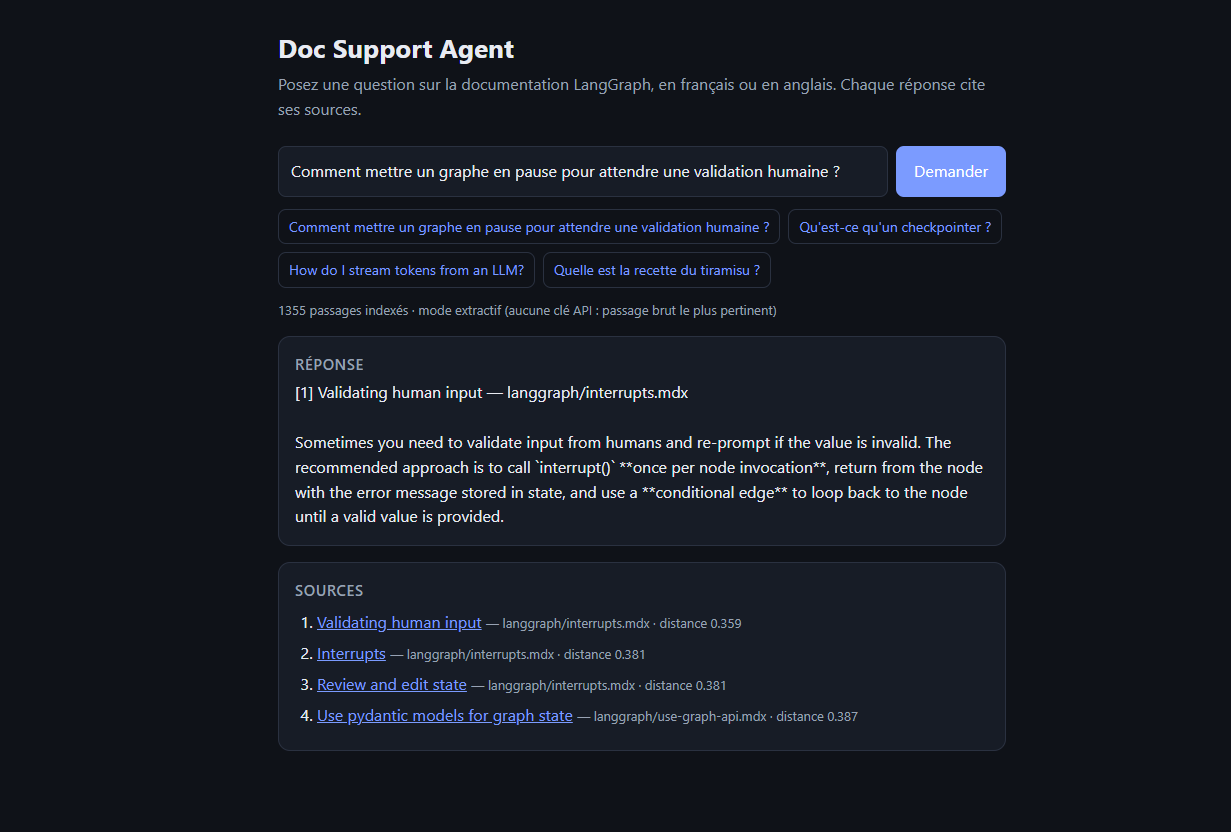
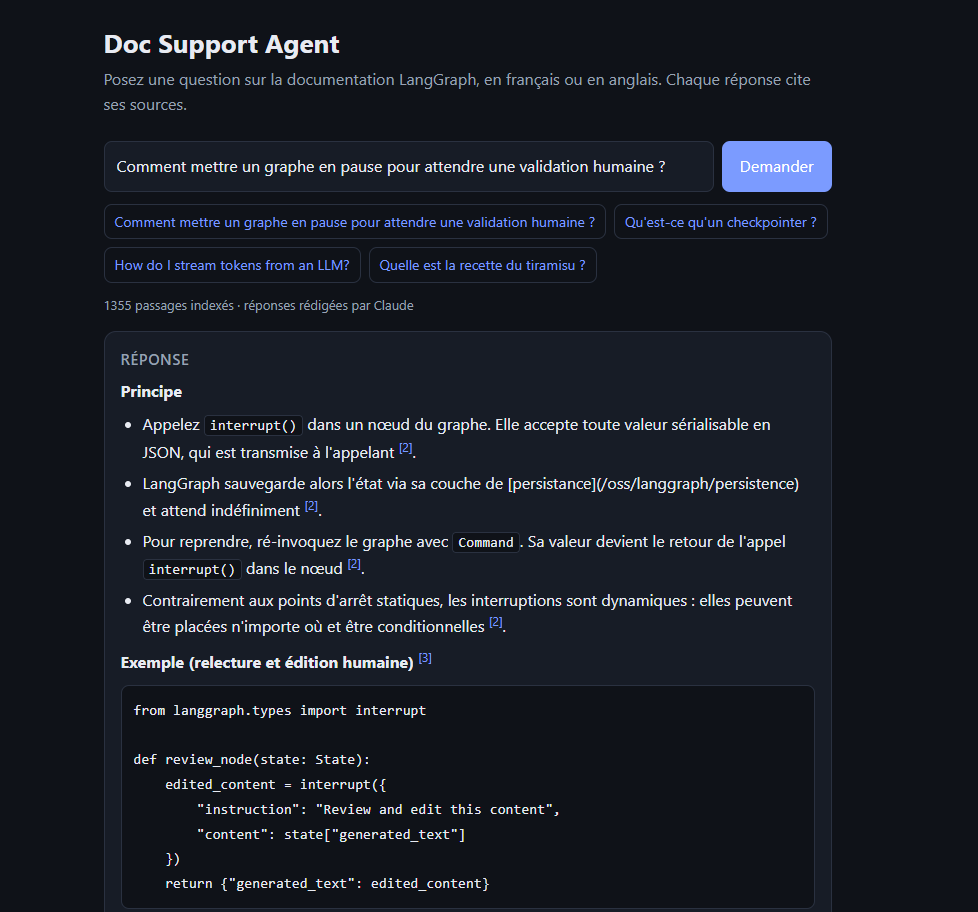
README: nouvelle capture (reponse redigee par Claude)

diff --git a/README.md b/README.md
@@ -4,7 +4,7 @@ Agent IA qui répond à des questions techniques sur la documentation **LangGrap
 
 **Stack** : LangGraph · ChromaDB · FastAPI · Docker · Claude (optionnel) · pytest · GitHub Actions
 
-![Démo : question en français sur une documentation en anglais, réponse et sources cliquables](demo.png)
+![Démo : question en français sur une documentation en anglais, réponse rédigée par Claude avec citations et code](demo.png)
 
 *Question en français, documentation en anglais : l'agent retrouve la bonne section et cite ses sources (capture en mode sans clé API ; avec `ANTHROPIC_API_KEY`, Claude rédige la réponse).*
 
